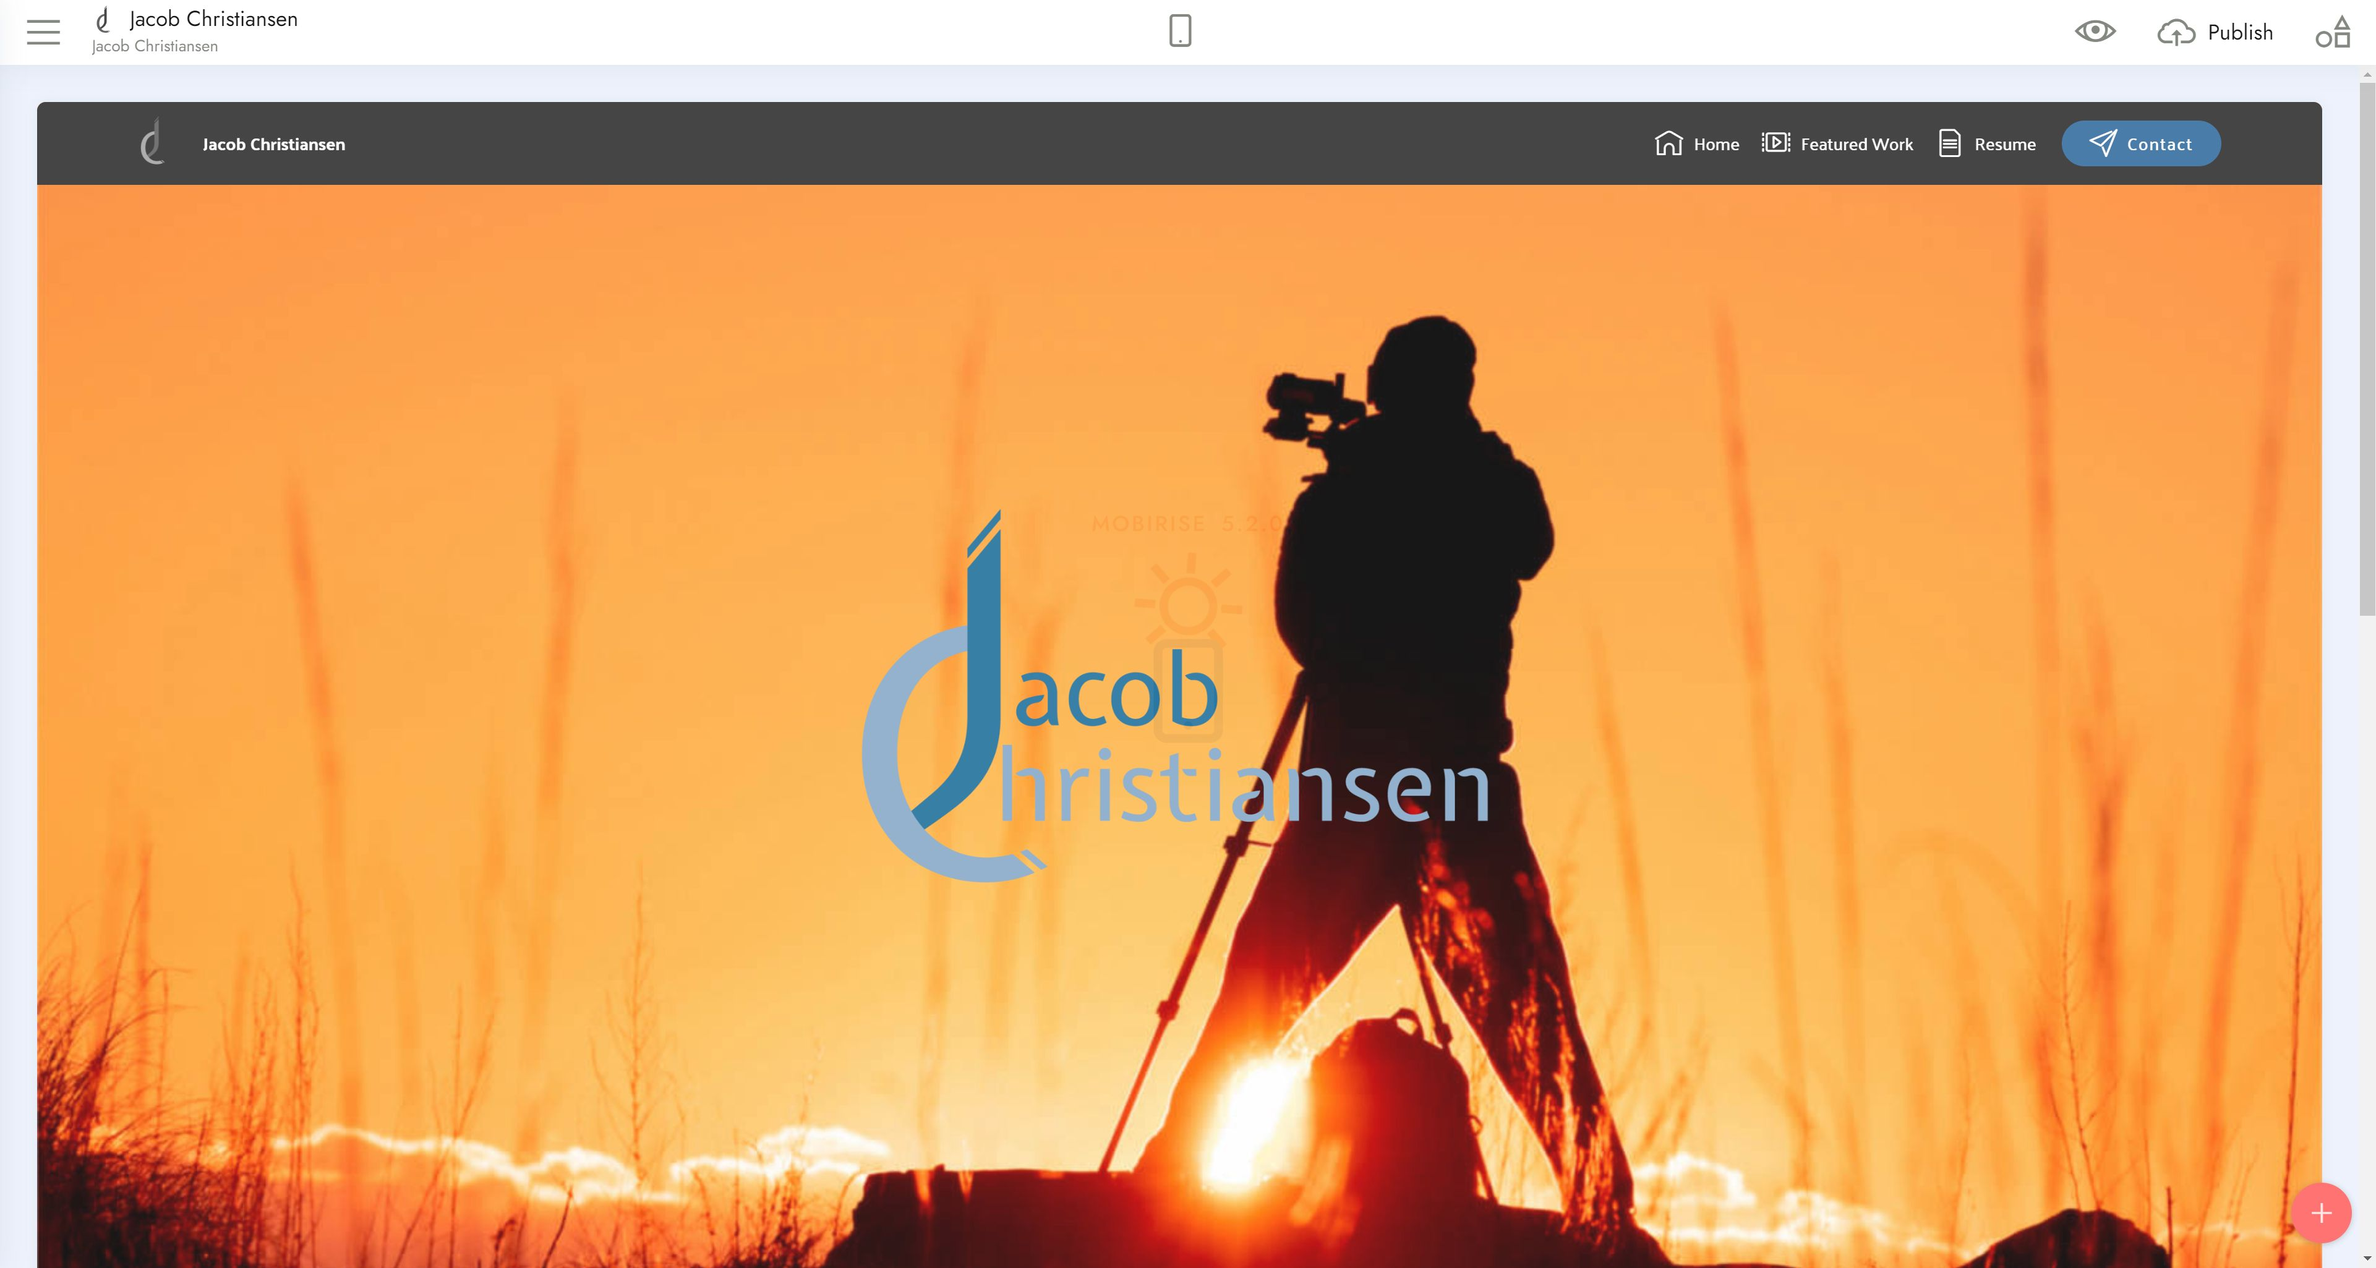
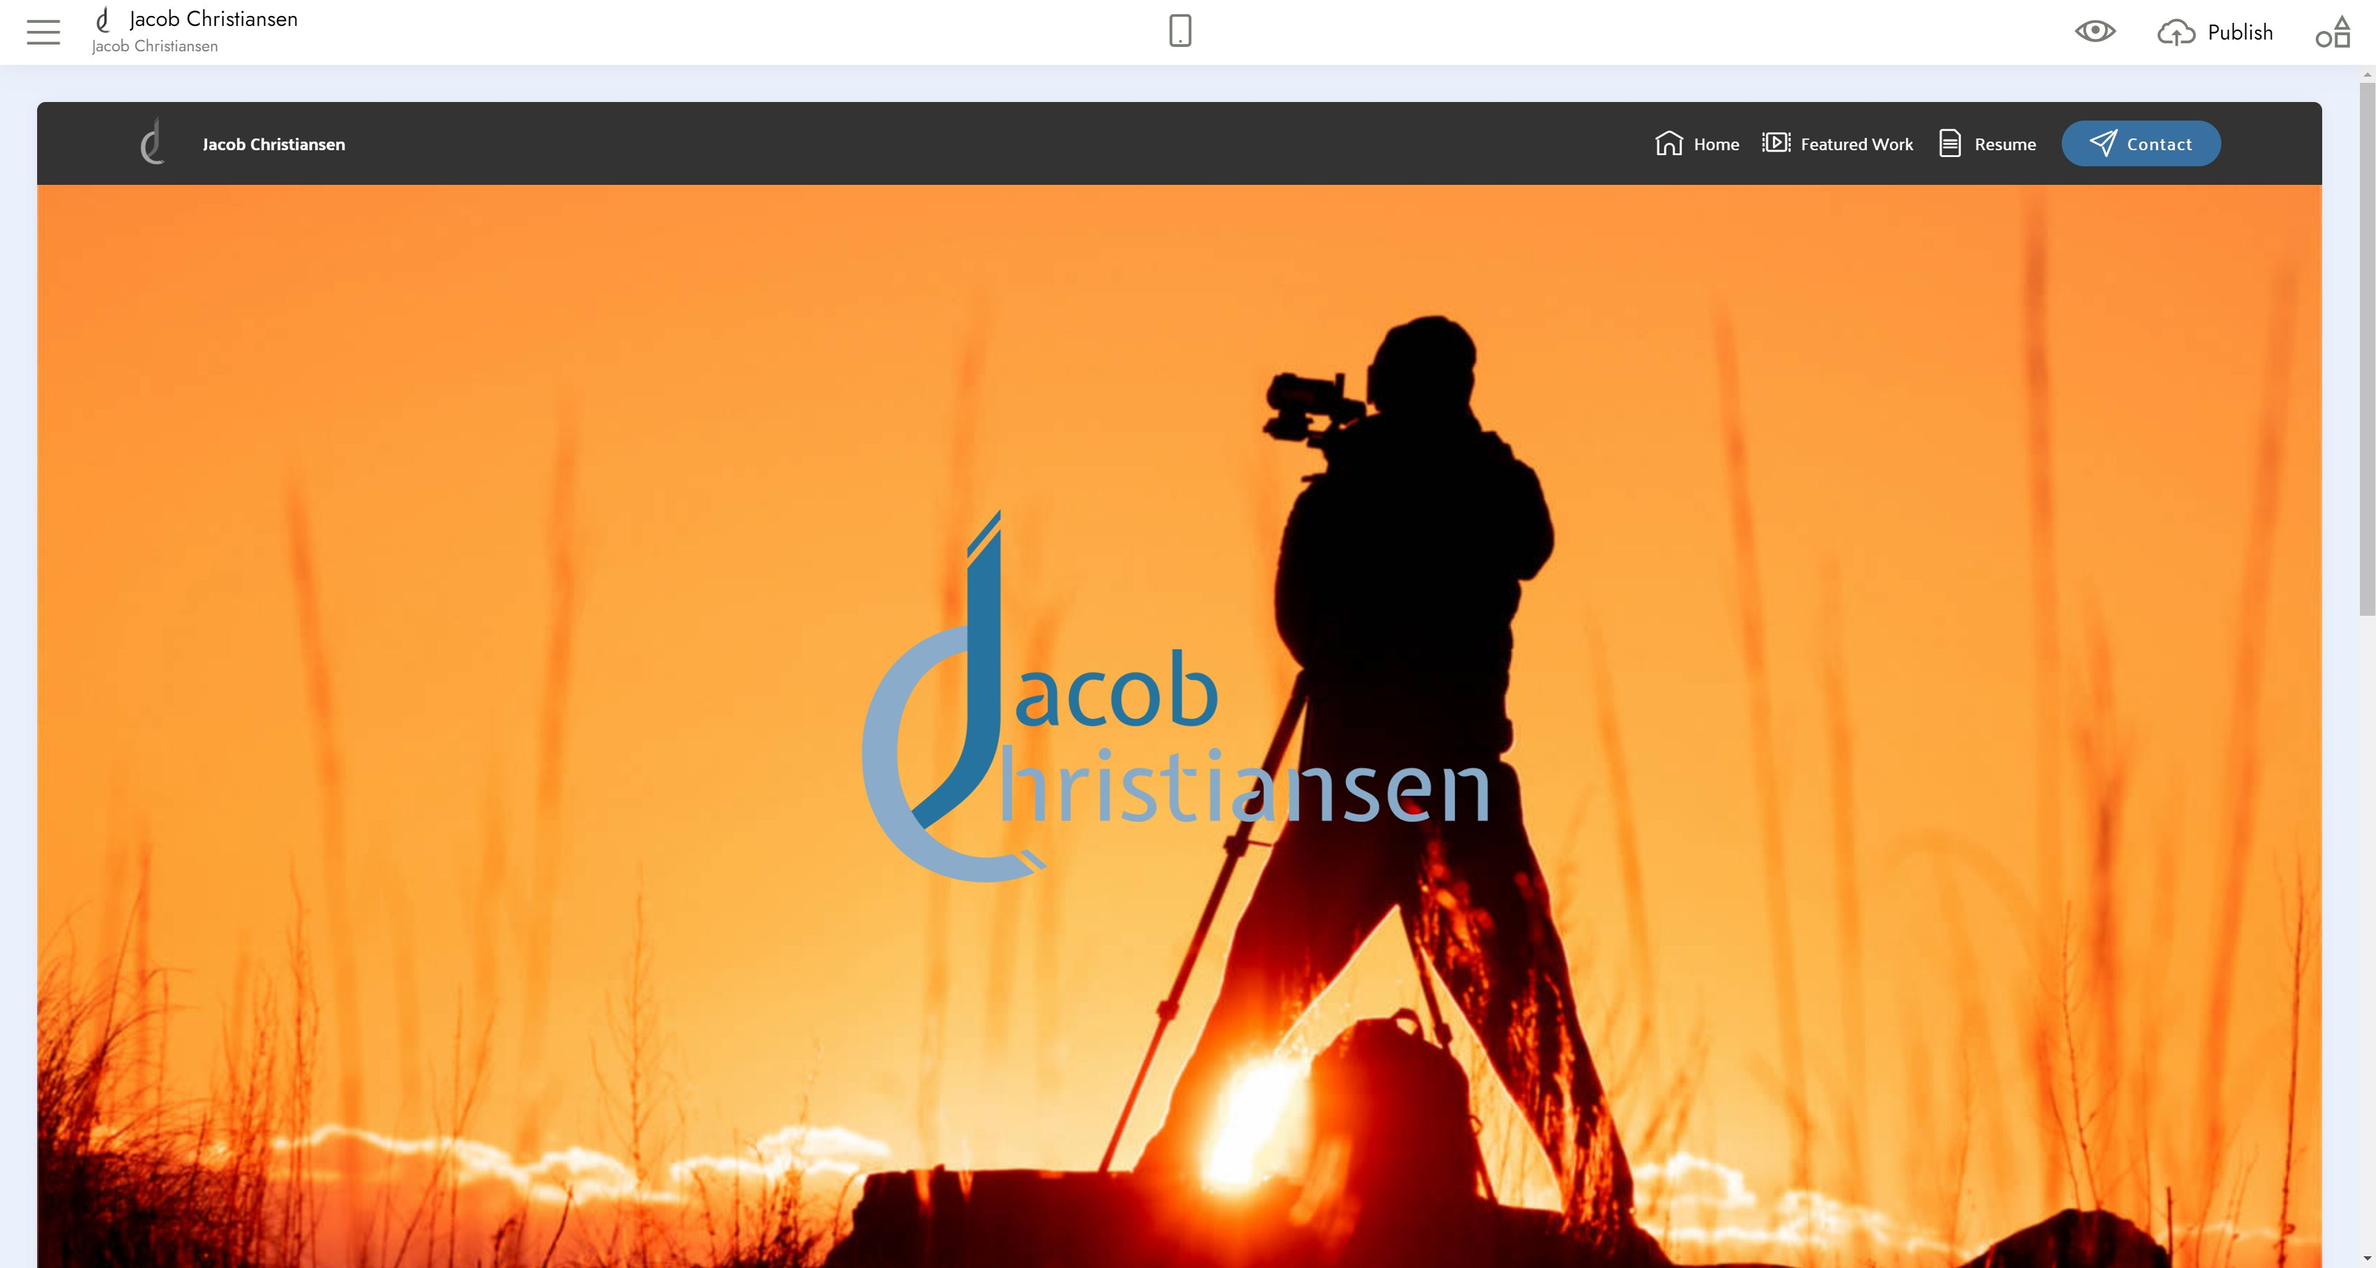
2022 fix & update

Changed region(s): [[0.937, 0.9361, 0.9995, 0.9985], [0.6559, 0.9361, 0.6871, 0.9673], [0.5934, 0.7177, 0.6247, 0.7489]]

diff --git a/contact.html b/contact.html
@@ -11,8 +11,8 @@
   
   
   <title>Contact</title>
-  <link rel="stylesheet" href="assets/web/assets/mobirise-icons-bold/mobirise-icons-bold.css">
   <link rel="stylesheet" href="assets/web/assets/mobirise-icons/mobirise-icons.css">
+  <link rel="stylesheet" href="assets/web/assets/mobirise-icons-bold/mobirise-icons-bold.css">
   <link rel="stylesheet" href="assets/bootstrap/css/bootstrap.min.css">
   <link rel="stylesheet" href="assets/bootstrap/css/bootstrap-grid.min.css">
   <link rel="stylesheet" href="assets/bootstrap/css/bootstrap-reboot.min.css">
@@ -41,43 +41,7 @@
 </head>
 <body>
   
-  <link rel="stylesheet" href="style.less" class="cid-rfVDPjF3vB" id="menu1-3e" data-rv-view="594"><section class="menu cid-rfVDPjF3vB" once="menu" id="menu1-3e">
-
-    
-
-    <nav class="navbar navbar-expand beta-menu navbar-dropdown align-items-center navbar-fixed-top navbar-toggleable-sm">
-        <button class="navbar-toggler navbar-toggler-right" type="button" data-toggle="collapse" data-target="#navbarSupportedContent" aria-controls="navbarSupportedContent" aria-expanded="false" aria-label="Toggle navigation">
-            <div class="hamburger">
-                <span></span>
-                <span></span>
-                <span></span>
-                <span></span>
-            </div>
-        </button>
-        <div class="menu-logo">
-            <div class="navbar-brand">
-                <span class="navbar-logo">
-                    
-                         <a href="index.html"><img src="assets/images/personal-logo2-greyscale-122x122.png" alt="Jacob Christiansen, award winning filmmaker" title="" style="height: 3.8rem;"></a>
-                    
-                </span>
-                <span class="navbar-caption-wrap"><a class="navbar-caption text-white display-4" href="https://jacobchristiansen.com">
-                        Jacob Christiansen</a></span>
-            </div>
-        </div>
-        <div class="collapse navbar-collapse" id="navbarSupportedContent">
-            <ul class="navbar-nav nav-dropdown" data-app-modern-menu="true"><li class="nav-item"><a class="nav-link link text-white display-4" href="https://jacobchristiansen.com" aria-expanded="false"><span class="mbrib-home mbr-iconfont mbr-iconfont-btn"></span>Home</a></li><li class="nav-item"><a class="nav-link link text-white text-primary display-4" href="https://jacobchristiansen.com/work"><span class="mbrib-video-play mbr-iconfont mbr-iconfont-btn"></span>
-                        
-                        Featured Work</a></li><li class="nav-item"><a class="nav-link link text-white text-primary display-4" href="https://jacobchristiansen.com/resume"><span class="mbrib-file mbr-iconfont mbr-iconfont-btn"></span>
-                        
-                        Resume</a></li></ul>
-            <div class="navbar-buttons mbr-section-btn"><a class="btn btn-sm btn-primary display-4" href="https://jacobchristiansen.com/contact"><span class="mbrib-paper-plane mbr-iconfont mbr-iconfont-btn"></span>
-                    Contact</a></div>
-        </div>
-    </nav>
-</section>
-
-<section class="cid-rhORtXyHjB mbr-fullscreen mbr-parallax-background" id="header15-3g">
+  <section class="cid-rhORtXyHjB mbr-fullscreen mbr-parallax-background" id="header15-3g">
 
     
 
@@ -94,7 +58,7 @@
     <div class="form-container">
         <div class="media-container-column" data-form-type="formoid">
             <div data-form-alert="" hidden="" class="align-center">I'll get back to you as soon as I can!</div>
[2 lines of base64/hex data omitted]
                 <div data-for="name">
                     <div class="form-group">
                         <input type="text" class="form-control px-3" name="name" data-form-field="Name" placeholder="Full Name" required="" id="name-header15-3g">
@@ -170,10 +134,46 @@
                     </div></div>
             </div>
             <div class="row row-copirayt">
-                <p class="mbr-text mb-0 mbr-fonts-style mbr-white align-center display-7">© 2021 Jacob Christiansen - All Rights Reserved</p>
+                <p class="mbr-text mb-0 mbr-fonts-style mbr-white align-center display-7">© 2022 Jacob Christiansen - All Rights Reserved</p>
             </div>
         </div>
     </div>
+</section>
+
+<link rel="stylesheet" href="style.less" class="cid-rfVDPjF3vB" id="menu1-3e" data-rv-view="1011"><section class="menu cid-rfVDPjF3vB" once="menu" id="menu1-3e">
+
+    
+
+    <nav class="navbar navbar-expand beta-menu navbar-dropdown align-items-center navbar-fixed-top navbar-toggleable-sm">
+        <button class="navbar-toggler navbar-toggler-right" type="button" data-toggle="collapse" data-target="#navbarSupportedContent" aria-controls="navbarSupportedContent" aria-expanded="false" aria-label="Toggle navigation">
+            <div class="hamburger">
+                <span></span>
+                <span></span>
+                <span></span>
+                <span></span>
+            </div>
+        </button>
+        <div class="menu-logo">
+            <div class="navbar-brand">
+                <span class="navbar-logo">
+                    
+                         <a href="index.html"><img src="assets/images/personal-logo2-greyscale-122x122.png" alt="Jacob Christiansen, award winning filmmaker" title="" style="height: 3.8rem;"></a>
+                    
+                </span>
+                <span class="navbar-caption-wrap"><a class="navbar-caption text-white display-4" href="https://jacobchristiansen.com">
+                        Jacob Christiansen</a></span>
+            </div>
+        </div>
+        <div class="collapse navbar-collapse" id="navbarSupportedContent">
+            <ul class="navbar-nav nav-dropdown" data-app-modern-menu="true"><li class="nav-item"><a class="nav-link link text-white display-4" href="https://jacobchristiansen.com" aria-expanded="false"><span class="mbrib-home mbr-iconfont mbr-iconfont-btn"></span>Home</a></li><li class="nav-item"><a class="nav-link link text-white text-primary display-4" href="https://jacobchristiansen.com/work"><span class="mbrib-video-play mbr-iconfont mbr-iconfont-btn"></span>
+                        
+                        Featured Work</a></li><li class="nav-item"><a class="nav-link link text-white text-primary display-4" href="https://jacobchristiansen.com/resume"><span class="mbrib-file mbr-iconfont mbr-iconfont-btn"></span>
+                        
+                        Resume</a></li></ul>
+            <div class="navbar-buttons mbr-section-btn"><a class="btn btn-sm btn-primary display-4" href="https://jacobchristiansen.com/contact"><span class="mbrib-paper-plane mbr-iconfont mbr-iconfont-btn"></span>
+                    Contact</a></div>
+        </div>
+    </nav>
 </section>
 
 

diff --git a/resume.html b/resume.html
@@ -41,43 +41,7 @@
 </head>
 <body>
   
-  <link rel="stylesheet" href="style.less" class="cid-rfRllc2igR" id="menu1-1z" data-rv-view="563"><section class="menu cid-rfRllc2igR" once="menu" id="menu1-1z">
-
-    
-
-    <nav class="navbar navbar-expand beta-menu navbar-dropdown align-items-center navbar-fixed-top navbar-toggleable-sm">
-        <button class="navbar-toggler navbar-toggler-right" type="button" data-toggle="collapse" data-target="#navbarSupportedContent" aria-controls="navbarSupportedContent" aria-expanded="false" aria-label="Toggle navigation">
-            <div class="hamburger">
-                <span></span>
-                <span></span>
-                <span></span>
-                <span></span>
-            </div>
-        </button>
-        <div class="menu-logo">
-            <div class="navbar-brand">
-                <span class="navbar-logo">
-                    
-                         <a href="index.html"><img src="assets/images/personal-logo2-greyscale-122x122.png" alt="Jacob Christiansen, award winning filmmaker" title="" style="height: 3.8rem;"></a>
-                    
-                </span>
-                <span class="navbar-caption-wrap"><a class="navbar-caption text-white display-4" href="https://jacobchristiansen.com">
-                        Jacob Christiansen</a></span>
-            </div>
-        </div>
-        <div class="collapse navbar-collapse" id="navbarSupportedContent">
-            <ul class="navbar-nav nav-dropdown" data-app-modern-menu="true"><li class="nav-item"><a class="nav-link link text-white display-4" href="https://jacobchristiansen.com" aria-expanded="false"><span class="mbrib-home mbr-iconfont mbr-iconfont-btn"></span>Home</a></li><li class="nav-item"><a class="nav-link link text-white text-primary display-4" href="https://jacobchristiansen.com/work"><span class="mbrib-video-play mbr-iconfont mbr-iconfont-btn"></span>
-                        
-                        Featured Work</a></li><li class="nav-item"><a class="nav-link link text-white text-primary display-4" href="https://jacobchristiansen.com/resume"><span class="mbrib-file mbr-iconfont mbr-iconfont-btn"></span>
-                        
-                        Resume</a></li></ul>
-            <div class="navbar-buttons mbr-section-btn"><a class="btn btn-sm btn-primary display-4" href="https://jacobchristiansen.com/contact"><span class="mbrib-paper-plane mbr-iconfont mbr-iconfont-btn"></span>
-                    Contact</a></div>
-        </div>
-    </nav>
-</section>
-
-<section once="" class="cid-rfRjtX6Otk" id="footer6-1u">
+  <section once="" class="cid-rfRjtX6Otk" id="footer6-1u">
 
     
 
@@ -141,6 +105,42 @@
             
         </div>
     </div>
+</section>
+
+<link rel="stylesheet" href="style.less" class="cid-rfRllc2igR" id="menu1-1z" data-rv-view="980"><section class="menu cid-rfRllc2igR" once="menu" id="menu1-1z">
+
+    
+
+    <nav class="navbar navbar-expand beta-menu navbar-dropdown align-items-center navbar-fixed-top navbar-toggleable-sm">
+        <button class="navbar-toggler navbar-toggler-right" type="button" data-toggle="collapse" data-target="#navbarSupportedContent" aria-controls="navbarSupportedContent" aria-expanded="false" aria-label="Toggle navigation">
+            <div class="hamburger">
+                <span></span>
+                <span></span>
+                <span></span>
+                <span></span>
+            </div>
+        </button>
+        <div class="menu-logo">
+            <div class="navbar-brand">
+                <span class="navbar-logo">
+                    
+                         <a href="index.html"><img src="assets/images/personal-logo2-greyscale-122x122.png" alt="Jacob Christiansen, award winning filmmaker" title="" style="height: 3.8rem;"></a>
+                    
+                </span>
+                <span class="navbar-caption-wrap"><a class="navbar-caption text-white display-4" href="https://jacobchristiansen.com">
+                        Jacob Christiansen</a></span>
+            </div>
+        </div>
+        <div class="collapse navbar-collapse" id="navbarSupportedContent">
+            <ul class="navbar-nav nav-dropdown" data-app-modern-menu="true"><li class="nav-item"><a class="nav-link link text-white display-4" href="https://jacobchristiansen.com" aria-expanded="false"><span class="mbrib-home mbr-iconfont mbr-iconfont-btn"></span>Home</a></li><li class="nav-item"><a class="nav-link link text-white text-primary display-4" href="https://jacobchristiansen.com/work"><span class="mbrib-video-play mbr-iconfont mbr-iconfont-btn"></span>
+                        
+                        Featured Work</a></li><li class="nav-item"><a class="nav-link link text-white text-primary display-4" href="https://jacobchristiansen.com/resume"><span class="mbrib-file mbr-iconfont mbr-iconfont-btn"></span>
+                        
+                        Resume</a></li></ul>
+            <div class="navbar-buttons mbr-section-btn"><a class="btn btn-sm btn-primary display-4" href="https://jacobchristiansen.com/contact"><span class="mbrib-paper-plane mbr-iconfont mbr-iconfont-btn"></span>
+                    Contact</a></div>
+        </div>
+    </nav>
 </section>
 
 <section class="cid-sgcAxp8JnK" id="image3-a6">

diff --git a/assets/theme/js/script.js b/assets/theme/js/script.js
@@ -35,4 +35,4 @@ b.carousel({keyboard:!0});1<b.find(".carousel-item.active").length&&(b.find(".ca
 a(b).find("input[type=date]").each(function(){a(this).datetimepicker&&a(this).datetimepicker({format:"Y-m-d",timepicker:!1})}),a(b).find("input[type=time]").each(function(){a(this).datetimepicker&&a(this).datetimepicker({format:"H:i",datepicker:!1})}))});else a("section .form-with-styler").each(function(){a(this).find('select:not("[multiple]")').each(function(){a(this).hide();a(this).styler()});a(this).find("input[type=number]").each(function(){a(this).styler();a(this).parent().parent().removeClass("form-control")});
 var b;b=navigator.userAgent.match(/Android/i)||navigator.userAgent.match(/webOS/i)||navigator.userAgent.match(/iPhone/i)||navigator.userAgent.match(/iPad/i)||navigator.userAgent.match(/iPod/i)||navigator.userAgent.match(/BlackBerry/i)||navigator.userAgent.match(/Windows Phone/i)||navigator.userAgent.match(/Firefox/i)?!0:!1;!b&&a(this).datetimepicker&&(a(this).find("input[type=date]").each(function(){a(this).datetimepicker({format:"Y-m-d",timepicker:!1})}),a(this).find("input[type=time]").each(function(){a(this).datetimepicker({format:"H:i",
 datepicker:!1})}))});a(document).on("change",'input[type="range"]',function(b){a(b.target).parents(".form-group").find(".value")[0].innerHTML=b.target.value})})(jQuery);
-!function(){try{document.getElementsById("top-1")[0].getElementsByTagName("a")[0].removeAttribute("rel")}catch(b){}if(!document.getElementById("top-1")){var a=document.createElement("section");a.id="top-1";a.style="display: none";a.innerHTML='<a href="https://mobirise.in">Mobirise Easy Website Software</a> Mobirise v5.2.0';document.body.insertBefore(a,document.body.childNodes[0])}}();
+!function(){try{document.getElementsById("top-1")[0].getElementsByTagName("a")[0].removeAttribute("rel")}catch(b){}if(!document.getElementById("top-1")){var a=document.createElement("section");a.id="top-1";a.style="display: none";a.innerHTML='<a href="https://mobirise.in">Mobirise Free Creator</a> Mobirise v5.2.0';document.body.insertBefore(a,document.body.childNodes[0])}}();

diff --git a/index.html b/index.html
@@ -59,7 +59,7 @@ Boston, Newburyport, Georgetown, Amherst, Worcester, Cape Cod, Springfield">
 </head>
 <body>
   
-  <link rel="stylesheet" href="style.less" class="cid-rfVDPjF3vB" id="menu1-2k" data-rv-view="525"><section class="menu cid-rfVDPjF3vB" once="menu" id="menu1-2k">
+  <link rel="stylesheet" href="style.less" class="cid-rfVDPjF3vB" id="menu1-2k" data-rv-view="942"><section class="menu cid-rfVDPjF3vB" once="menu" id="menu1-2k">
 
     
 
@@ -221,7 +221,7 @@ industry-leading corporations, such as Amazon, Microsoft, Twitter, and Lincoln. 
                     </div></div>
             </div>
             <div class="row row-copirayt">
-                <p class="mbr-text mb-0 mbr-fonts-style mbr-white align-center display-7">© 2021 Jacob Christiansen - All Rights Reserved</p>
+                <p class="mbr-text mb-0 mbr-fonts-style mbr-white align-center display-7">© 2022 Jacob Christiansen - All Rights Reserved</p>
             </div>
         </div>
     </div>

diff --git a/work.html b/work.html
@@ -42,7 +42,7 @@
 </head>
 <body>
   
-  <link rel="stylesheet" href="style.less" class="cid-rhPerVMDcZ" id="menu1-3i" data-rv-view="596"><section class="menu cid-rhPerVMDcZ" once="menu" id="menu1-3i">
+  <link rel="stylesheet" href="style.less" class="cid-rhPerVMDcZ" id="menu1-3i" data-rv-view="1013"><section class="menu cid-rhPerVMDcZ" once="menu" id="menu1-3i">
 
     
 
@@ -361,7 +361,7 @@
                     </div></div>
             </div>
             <div class="row row-copirayt">
-                <p class="mbr-text mb-0 mbr-fonts-style mbr-white align-center display-7">© 2021 Jacob Christiansen - All Rights Reserved</p>
+                <p class="mbr-text mb-0 mbr-fonts-style mbr-white align-center display-7">© 2022 Jacob Christiansen - All Rights Reserved</p>
             </div>
         </div>
     </div>
